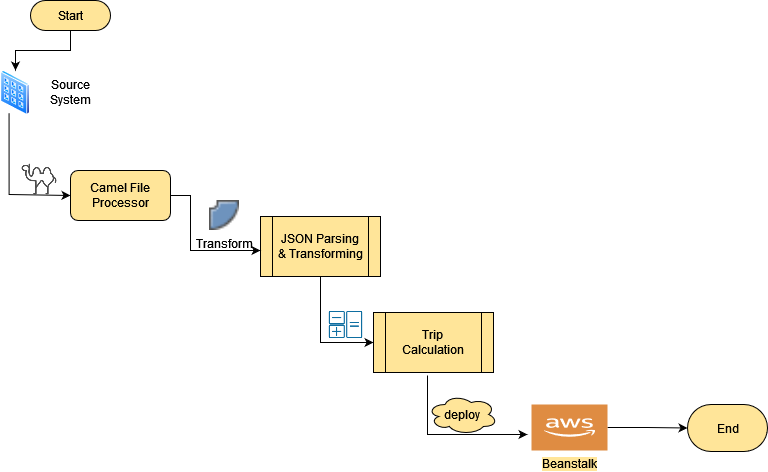
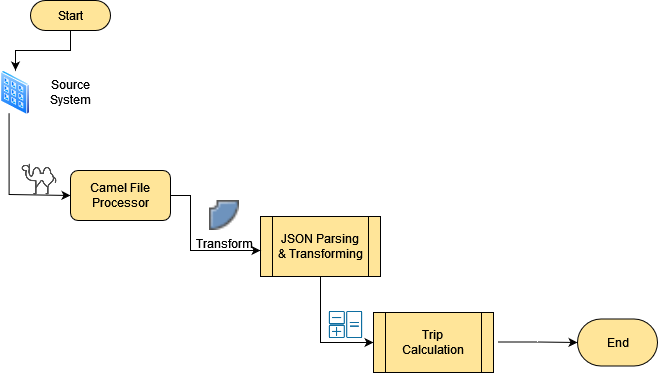
final changes

Changed region(s): [[0.0, 0.118, 0.6687, 0.7962], [0.4863, 0.8257, 1.0, 1.0], [0.0304, 0.0, 0.1824, 0.118]]

diff --git a/src/main/java/com/etr/trip/route/IngesterRoutes.java b/src/main/java/com/etr/trip/route/IngesterRoutes.java
@@ -26,7 +26,11 @@ public class IngesterRoutes extends RouteBuilder {
 	// Look up for File (new interchanges.json)
 	private void addFileIngestoryRoute() {
 		logger.info("inside IngesterRoutes..");
+		// read local file
 		from("file:files/input/?noop=true").convertBodyTo(File.class).process(new FileInjestorService());
+		// read aws file
+//		from("aws-s3://s3://mylocalbcuket?accessKey=yourAccessKey&secretKey=yourSecretKey&prefix=interchanges.json")
+//				.convertBodyTo(File.class).process(new FileInjestorService());
 	}
 
 }

diff --git a/README.md b/README.md
@@ -11,7 +11,7 @@ Design :
 
 Git-repository:
 
-https://github.com/learnad/407etr/tree/master
+https://github.com/learnad/407etr
 
 How to Use :
 
@@ -22,20 +22,19 @@ https://github.com/learnad/407etr/tree/master/postman
 
 GET endpoint: 
 local: http://localhost:5000/api/tripcalculator/v1/tripcost
-aws  :
+
 
 Swagger : 
 
-local:http://localhost:5000/swagger-ui.html 
-aws:
+local:http://localhost:5000/swagger-ui.html
+
 
 Tech Stack: 
 
--Apache Camel
--Apache lucene
--Apache commons
--SpringBoot
--Spring Web(REST)
--Swagger2
--Junit(jupiter)
--AWS Beanstalk
+ Apache Camel
+ Apache lucene
+ Apache commons
+ SpringBoot
+ Spring Web(REST)
+ Swagger2
+ Junit(jupiter)
